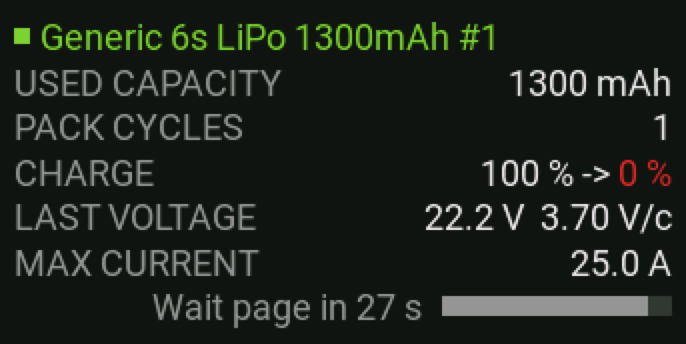
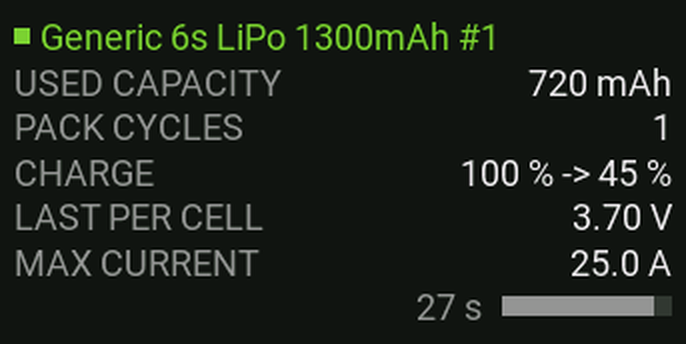
Colour levels from the core (restLevel, cellLevel, lastVoltageLevel, timerLevel), each guarded on its own; preflight PER CELL and PACK coloured by the cell voltage; new README screenshots (TX16S MK3)

diff --git a/docs/usage.md b/docs/usage.md
@@ -21,16 +21,18 @@ The widget moves through four pages:
 2. **Preflight**: a battery is detected. The pack is **auto-selected when exactly
    one** matches the resting voltage; if several (or none) clearly match, you're
    asked to pick first. Parallel models always prompt for both slots. The page
-   shows the per-cell voltage (`PER CELL`), the pack voltage (`TOTAL`), the
-   threshold bar and the pack check: `PACK READY` (green) or `BATTERY LOW`
+   uses the flight page's rows: the per-cell voltage (`PER CELL`), the pack
+   voltage (`PACK`), the threshold bar, `REMAINING` % and `LEFT` mAh, and the
+   pack check (`PER CELL` and `PACK` coloured by the cell voltage as in flight,
+   the check by the remaining %): `PACK READY` (green) or `BATTERY LOW`
    (yellow below the warn threshold, red below critical). It moves on to the
    flight page as soon as the model is armed (read from the CRSF flight mode
-   `FM`), or after `PACK READY` held for 15 s (`Flight page in N s`).
+   `FM`), or after `PACK READY` held for 15 s (countdown `N s` beside the status).
 3. **Flight**: the live readout (see below).
 4. **Ended**: battery unplugged after a flight. After a short grace period
    (1.5 s without link) the flight is closed out (cycle counting happens here)
    and an **end page** is shown: the pack label, `USED CAPACITY` (mAh), `PACK CYCLES`, `CHARGE` (charge in % at the start and at the end, `100 % -> 23 %`),
-   `LAST VOLTAGE` (pack and per cell) and `MAX CURRENT` (shortened to `USED CAP`, `LAST V` and `MAX CURR` on narrow zones), with a bar counting down 30 s at the
+   `LAST PER CELL` (cell voltage at the end) and `MAX CURRENT` (shortened to `USED CAP`, `LAST CELL` and `MAX CURR` on narrow zones), with a bar counting down 30 s at the
    bottom right. It returns to **Waiting** after
    ~30 s, or immediately if you plug in again.
    If the link drops while the model is **armed**, it is a link failure: the summary is shown and saved as well, and if the
@@ -70,6 +72,9 @@ candidate is taken automatically.
   <img src="img/widget-tile-annotated.png" width="480" alt="Widget tile in flight, values annotated">
 </p>
 
+Colours: the big percentage and its bar are green, yellow or red; the smaller
+values stay in the text colour and only turn yellow or red past a threshold.
+
 - **Pack label**: `name #N` for a single pack, or `#1+2` for a parallel pair.
 - **Remaining %**: the big number, driven by consumed mAh offset by the start
   state of charge and shrunk by the pack's **Wear %**. Coloured green / yellow /
@@ -81,12 +86,13 @@ candidate is taken automatically.
   threshold (you should be landing by then). The average only counts while armed
   and follows the last minute or so of flying. Shows `calc..` until 30 s of
   flying, and `--:--` if there's no current sensor or it only reads 0 A (FC
-  without a current meter).
+  without a current meter). Timer 1 turns red once a countdown runs below zero.
 - **Bar**: the remaining percentage as a bar, with yellow and red marks at the
   warn and critical thresholds.
-- **PACK** / **CELL**: live pack voltage and voltage per cell, coloured green /
-  yellow / red from the chemistry's own voltage range.
-- **LEFT**: remaining capacity in mAh (start offset and wear included).
+- **PACK** / **CELL**: live pack voltage and voltage per cell, turning yellow /
+  red against the chemistry's own voltage range.
+- **LEFT**: remaining capacity in mAh (start offset and wear included), yellow /
+  red like the percentage.
 - **CURRENT**: live current draw.
 
 Small zones keep the percentage, the bar and as many of these rows as fit.

diff --git a/README.md b/README.md
@@ -65,7 +65,7 @@ Besides the flight view above, the widget shows a page for each other phase of a
 <table>
   <tr>
     <td align="center"><img src="docs/img/widget-waiting.png" width="260" alt="Waiting page: no battery connected"></td>
-    <td align="center"><img src="docs/img/widget-preflight.png" width="260" alt="Preflight page with per-cell voltage, total voltage and pack status"></td>
+    <td align="center"><img src="docs/img/widget-preflight.png" width="260" alt="Preflight page with per-cell voltage, total voltage, remaining charge and pack status"></td>
     <td align="center"><img src="docs/img/widget-end.png" width="260" alt="End page with used capacity, pack cycles, charge, last voltage and maximum current"></td>
   </tr>
   <tr>
